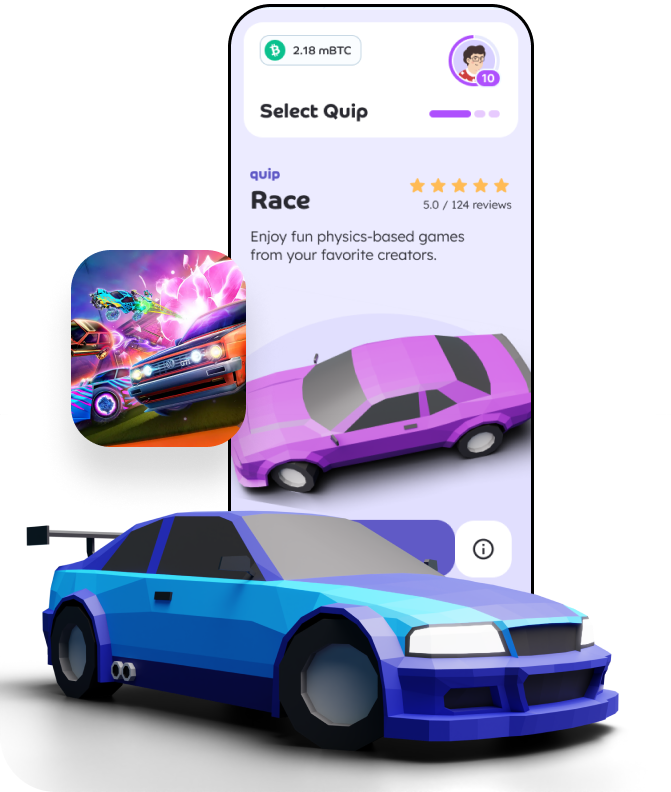
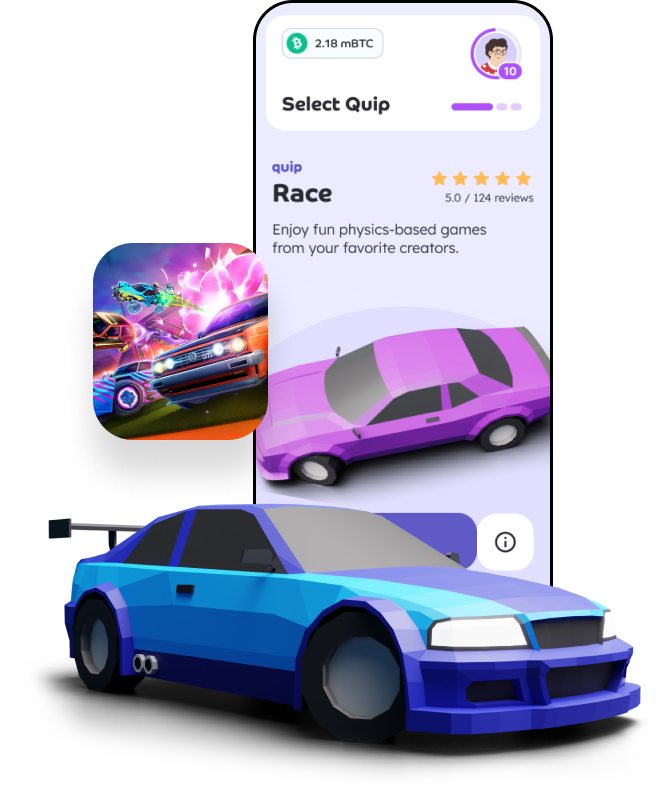
responsive game cards and landing cards

Changed region(s): [[0.0, 0.0, 0.9538, 1.0]]

diff --git a/apps/quip-web/components/GameCard.vue b/apps/quip-web/components/GameCard.vue
@@ -43,13 +43,7 @@ watch(height, calcCardRot)
 
 <template>
   <QuipCard :class="computedColor" class="gameCard mb-8 overflow-hidden">
-    <div
-      :class="{
-        'flex-row': props.layout === 'right',
-        'flex-row-reverse': props.layout === 'left',
-      }"
-      class="d-flex w-100 h-100 position-relative"
-    >
+    <div class="d-flex w-100 h-100 position-relative">
       <div v-if="comingSoon" class="comingSoon position-absolute h-100 w-100 rounded-corners overflow-hidden">
         <div class="w-100 h-100 rotate d-flex align-center justify-center">
           <div class="banner elevation-24 d-flex align-center justify-center ml-16" :class="computedColor">
@@ -64,21 +58,28 @@ watch(height, calcCardRot)
           </div>
         </div>
       </div>
-      <div class="d-flex w-100 h-100 align-center pa-16" :class="{'blur': comingSoon}">
-        <div class="w-100 h-100 d-flex align-center justify-center">
+      <div
+        :class="{
+          'flex-row': props.layout === 'right',
+          'flex-row-reverse': props.layout === 'left',
+          'blur': comingSoon,
+        }"
+        class="d-flex w-100 h-100 align-center pa-xl-16 pa-lg-16 pa-sm-8 pa-8 mobileContent"
+      >
+        <div class="w-100 h-100 d-flex justify-center align-start align-md-center align-lg-center align-xl-center">
           <div class="circle position-relative" :class="computedColorAccent">
             <img :src="img" alt="quip game image" class="position-absolute gameImg"/>
           </div>
         </div>
         <div class="w-100">
-          <h1 class="text-jetblack-light mb-6">
+          <h1 class="text-jetblack-light mb-2 mb-md-6 mb-lg-6 mb-xl-6">
             {{ title }}
           </h1>
           <p>
             {{ text }}
           </p>
-          <div class="mt-10">
-            <div v-for="(bullet, i) in bullets" :key="i" class="d-flex align-center mb-8">
+          <div class="mt-4 mt-md-10 mt-lg-10 mt-xl-10">
+            <div v-for="(bullet, i) in bullets" :key="i" class="d-flex align-center mb-md-8 mb-lg-8 mb-xl-8 mb-3">
               <div class="bullet" :class="computedBulletColor">
                 <div class="bulletCircle" :class="computedBulletColorAccent"/>
               </div>
@@ -87,7 +88,7 @@ watch(height, calcCardRot)
               </div>
             </div>
           </div>
-          <div class="learnMore">
+          <div class="learnMore mt-2 mt-md-0 mt-lg-0 mt-xl-0">
             <QuipButton :width="176" class="learnMoreBtn text-jetblack">
               <h3>Learn More</h3>
             </QuipButton>
@@ -99,13 +100,35 @@ watch(height, calcCardRot)
 </template>
 
 <style scoped lang="scss">
+@import "styles/mixins.scss";
+
 .gameCard {
-  height: calc(100vh - 160px);
+  height: 740px;
+
+  @include sm-down {
+    height: 772px !important;
+  }
+}
+
+.mobileContent {
+  @include sm-down {
+    flex-direction: column !important;
+  }
 }
 
 h1 {
   font-size: 80px;
   line-height: 80px;
+
+  @include md-down {
+    font-size: 48px;
+    line-height: 48px;
+  }
+
+  @include sm-down {
+    font-size: 32px;
+    line-height: 100%;
+  }
 }
 
 p {
@@ -113,6 +136,16 @@ p {
   font-weight: 300;
   font-size: 24px;
   line-height: 30px;
+
+  @include md-down {
+    font-size: 20px;
+    line-height: 22px;
+  }
+
+  @include sm-down {
+    font-size: 18px;
+    line-height: 22px;
+  }
 }
 
 .learnMore {
@@ -132,18 +165,34 @@ p {
   display: flex;
   align-items: center;
   justify-content: center;
+
+  @include md-down {
+    border-radius: 12px;
+    width: 36px;
+    height: 36px;
+  }
 }
 
 .bulletCircle {
   width: 32px;
   height: 32px;
   border-radius: 50%;
+
+  @include md-down {
+    width: 20px;
+    height: 20px;
+  }
 }
 
 .bulletText {
   font-weight: 400;
   font-size: 18px;
   line-height: 20px;
+
+  @include sm-down {
+    font-size: 18px;
+    line-height: 110%;
+  }
 }
 
 .comingSoon {
@@ -204,11 +253,33 @@ p {
   width: 480px;
   height: 480px;
   border-radius: 50%;
+
+  @include md-down {
+    width: 320px;
+    height: 320px;
+  }
+
+  @include sm-down {
+    width: 270px;
+    height: 270px;
+  }
 }
 
 .gameImg {
-  top: calc(50% - 260px);
-  left: calc(50% - 290px);
-  height: 620px;
+  top: calc(50% - 270px);
+  left: calc(50% - 320px);
+  height: 640px;
+
+  @include md-down {
+    height: 480px;
+    top: calc(50% - 200px);
+    left: calc(50% - 240px);
+  }
+
+  @include sm-down {
+    height: 390px;
+    top: calc(50% - 150px);
+    left: calc(50% - 195px);
+  }
 }
 </style>

diff --git a/apps/quip-web/pages/index.vue b/apps/quip-web/pages/index.vue
@@ -8,7 +8,7 @@ const computedDesktopCircles = computed(() => [
   {
     //circle 1
     circle: {
-      size: md.value ? 400 : 573,
+      size: md.value ? 360 : 573,
       top: md.value ? 'calc(50% - 200px)' : '10px',
       right: '-9px',
     },
@@ -16,9 +16,9 @@ const computedDesktopCircles = computed(() => [
     img: {
       src: '/ImageApp1.png',
       alt: 'quip app image',
-      top: '-50px',
-      left: '-30px',
-      height: md.value ? '500px' : undefined,
+      top: md.value ? '-30px' : '-70px',
+      left: md.value ? '-40px' : '-80px',
+      height: md.value ? '420px' : undefined,
       overflow: !md.value,
     }
   },
@@ -131,9 +131,9 @@ onMounted(() => {
             :text-max-width="190"
             :img="{
               src: '/ImageApp1.png',
-              width: '252px',
-              bottom: '-17px',
-              left: 'calc(50% - 136px)',
+              width: '320px',
+              bottom: '-35px',
+              left: 'calc(50% - 175px)',
               alt: 'quip app image',
               overflow: false,
             }"
@@ -210,6 +210,7 @@ onMounted(() => {
               'Lorem Ipsum Dolor Met',
             ]"
             img="/game/gameCardImg2.png"
+            :coming-soon="true"
           >
           </GameCard>
           <GameCard
